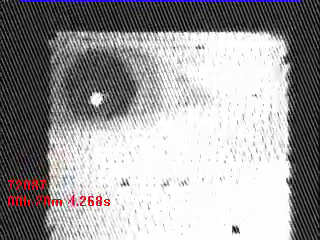
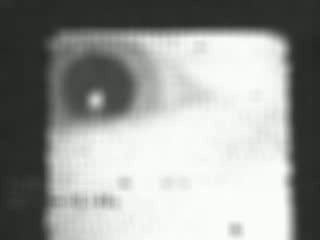
Using GPU to speed things up under conda, but there seems to be some minor problem

diff --git a/eye_circle.py b/eye_circle.py
@@ -10,6 +10,8 @@ import functools
 import numpy as np
 import multiprocessing
 from collections import Counter
+from numba import jit, cuda
+from timeit import default_timer as timer
 
 class circle_acc:
 	def __init__(self, frame):
@@ -54,13 +56,14 @@ class circle_acc:
 		  else:
 			    self.accumulator[(x0,y0,r)]=0
 
-
-def circle(name_count, frame):
+# function optimized to run on gpu
+@jit
+def circle(frame, name_count = None):
+  # start = timer()
   original_image = frame # Input file image
   edged_image = frame #Input image for the edged image
   height = edged_image.shape[0]
   width = edged_image.shape[1]
-
 
   Rmin = 20
   Rmax = 50
@@ -125,7 +128,7 @@ def circle(name_count, frame):
   for x, y, r in max_cor:
     circled_cases = cv2.circle(original_image, (x,y), r, (0,0,255))
     cv2.imwrite('circled/test.png', circled_cases)
-
+  # print(timer() - start)
   return max_cor, max_collec, circled_cases
 
 # def ccast(yx, r, t, width, height):

diff --git a/hough_transform/hough_transform.cpp b/hough_transform/hough_transform.cpp
@@ -2,6 +2,7 @@
 #include<opencv2/core/core.hpp>
 #include<opencv2/highgui/highgui.hpp>
 #include<iostream>
+#include "opencv2/imgproc/imgproc.hpp"
 
 using namespace cv;
 using namespace std;
